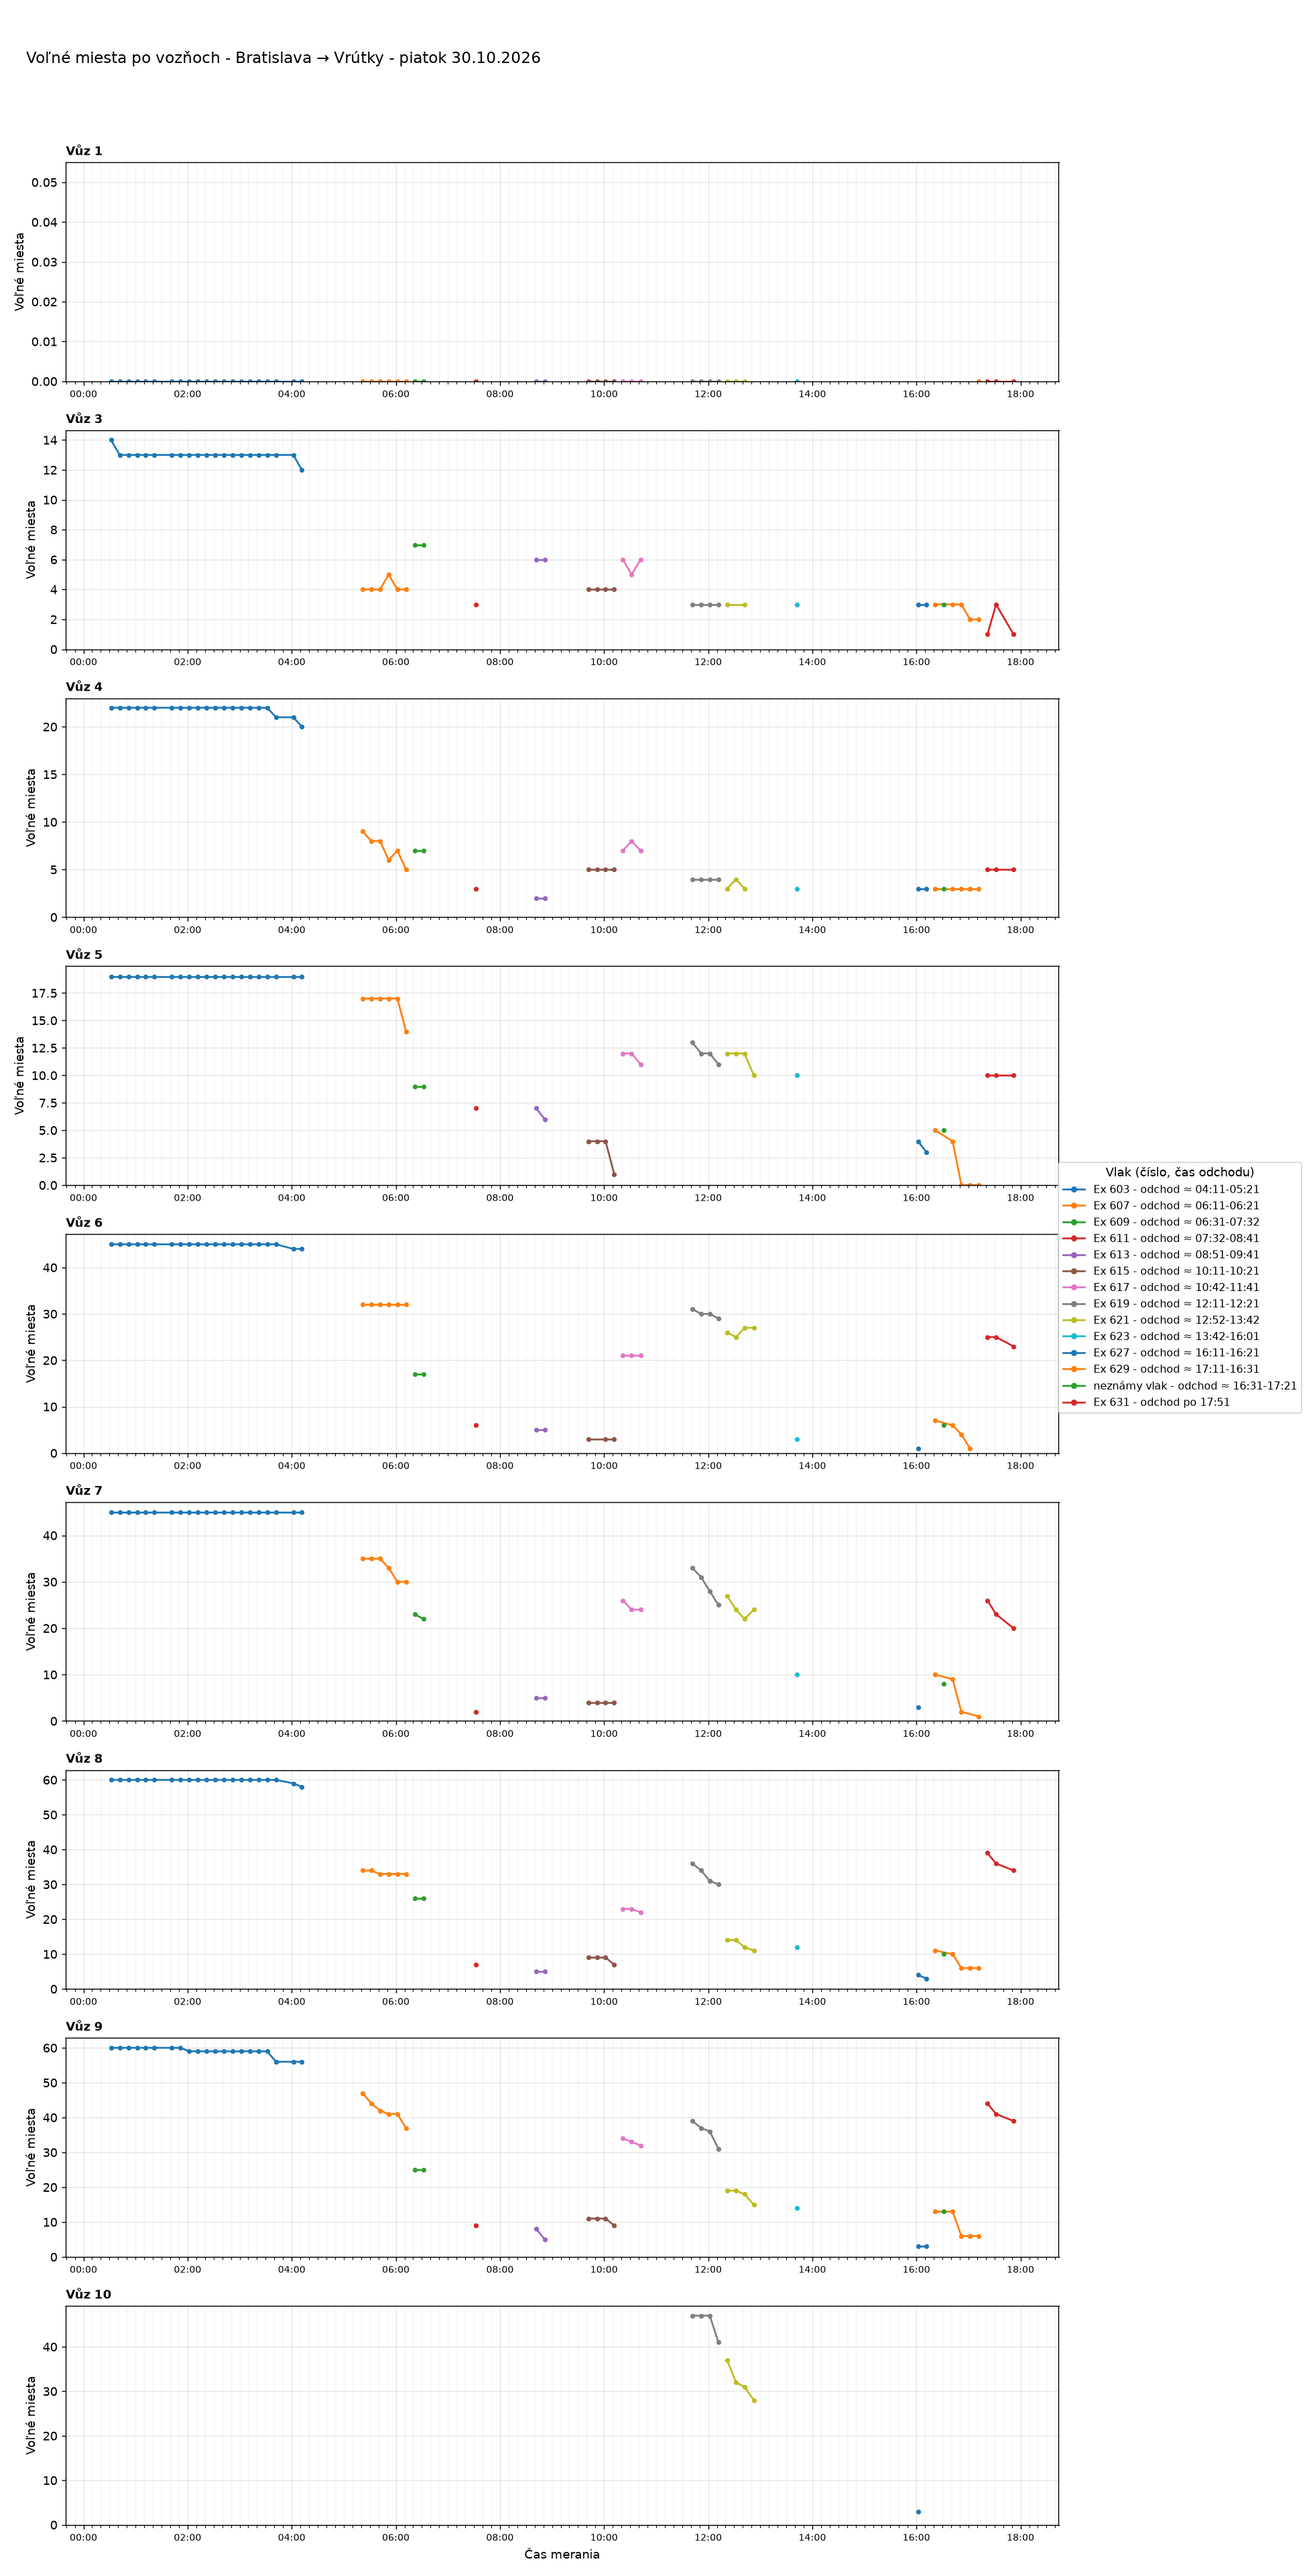
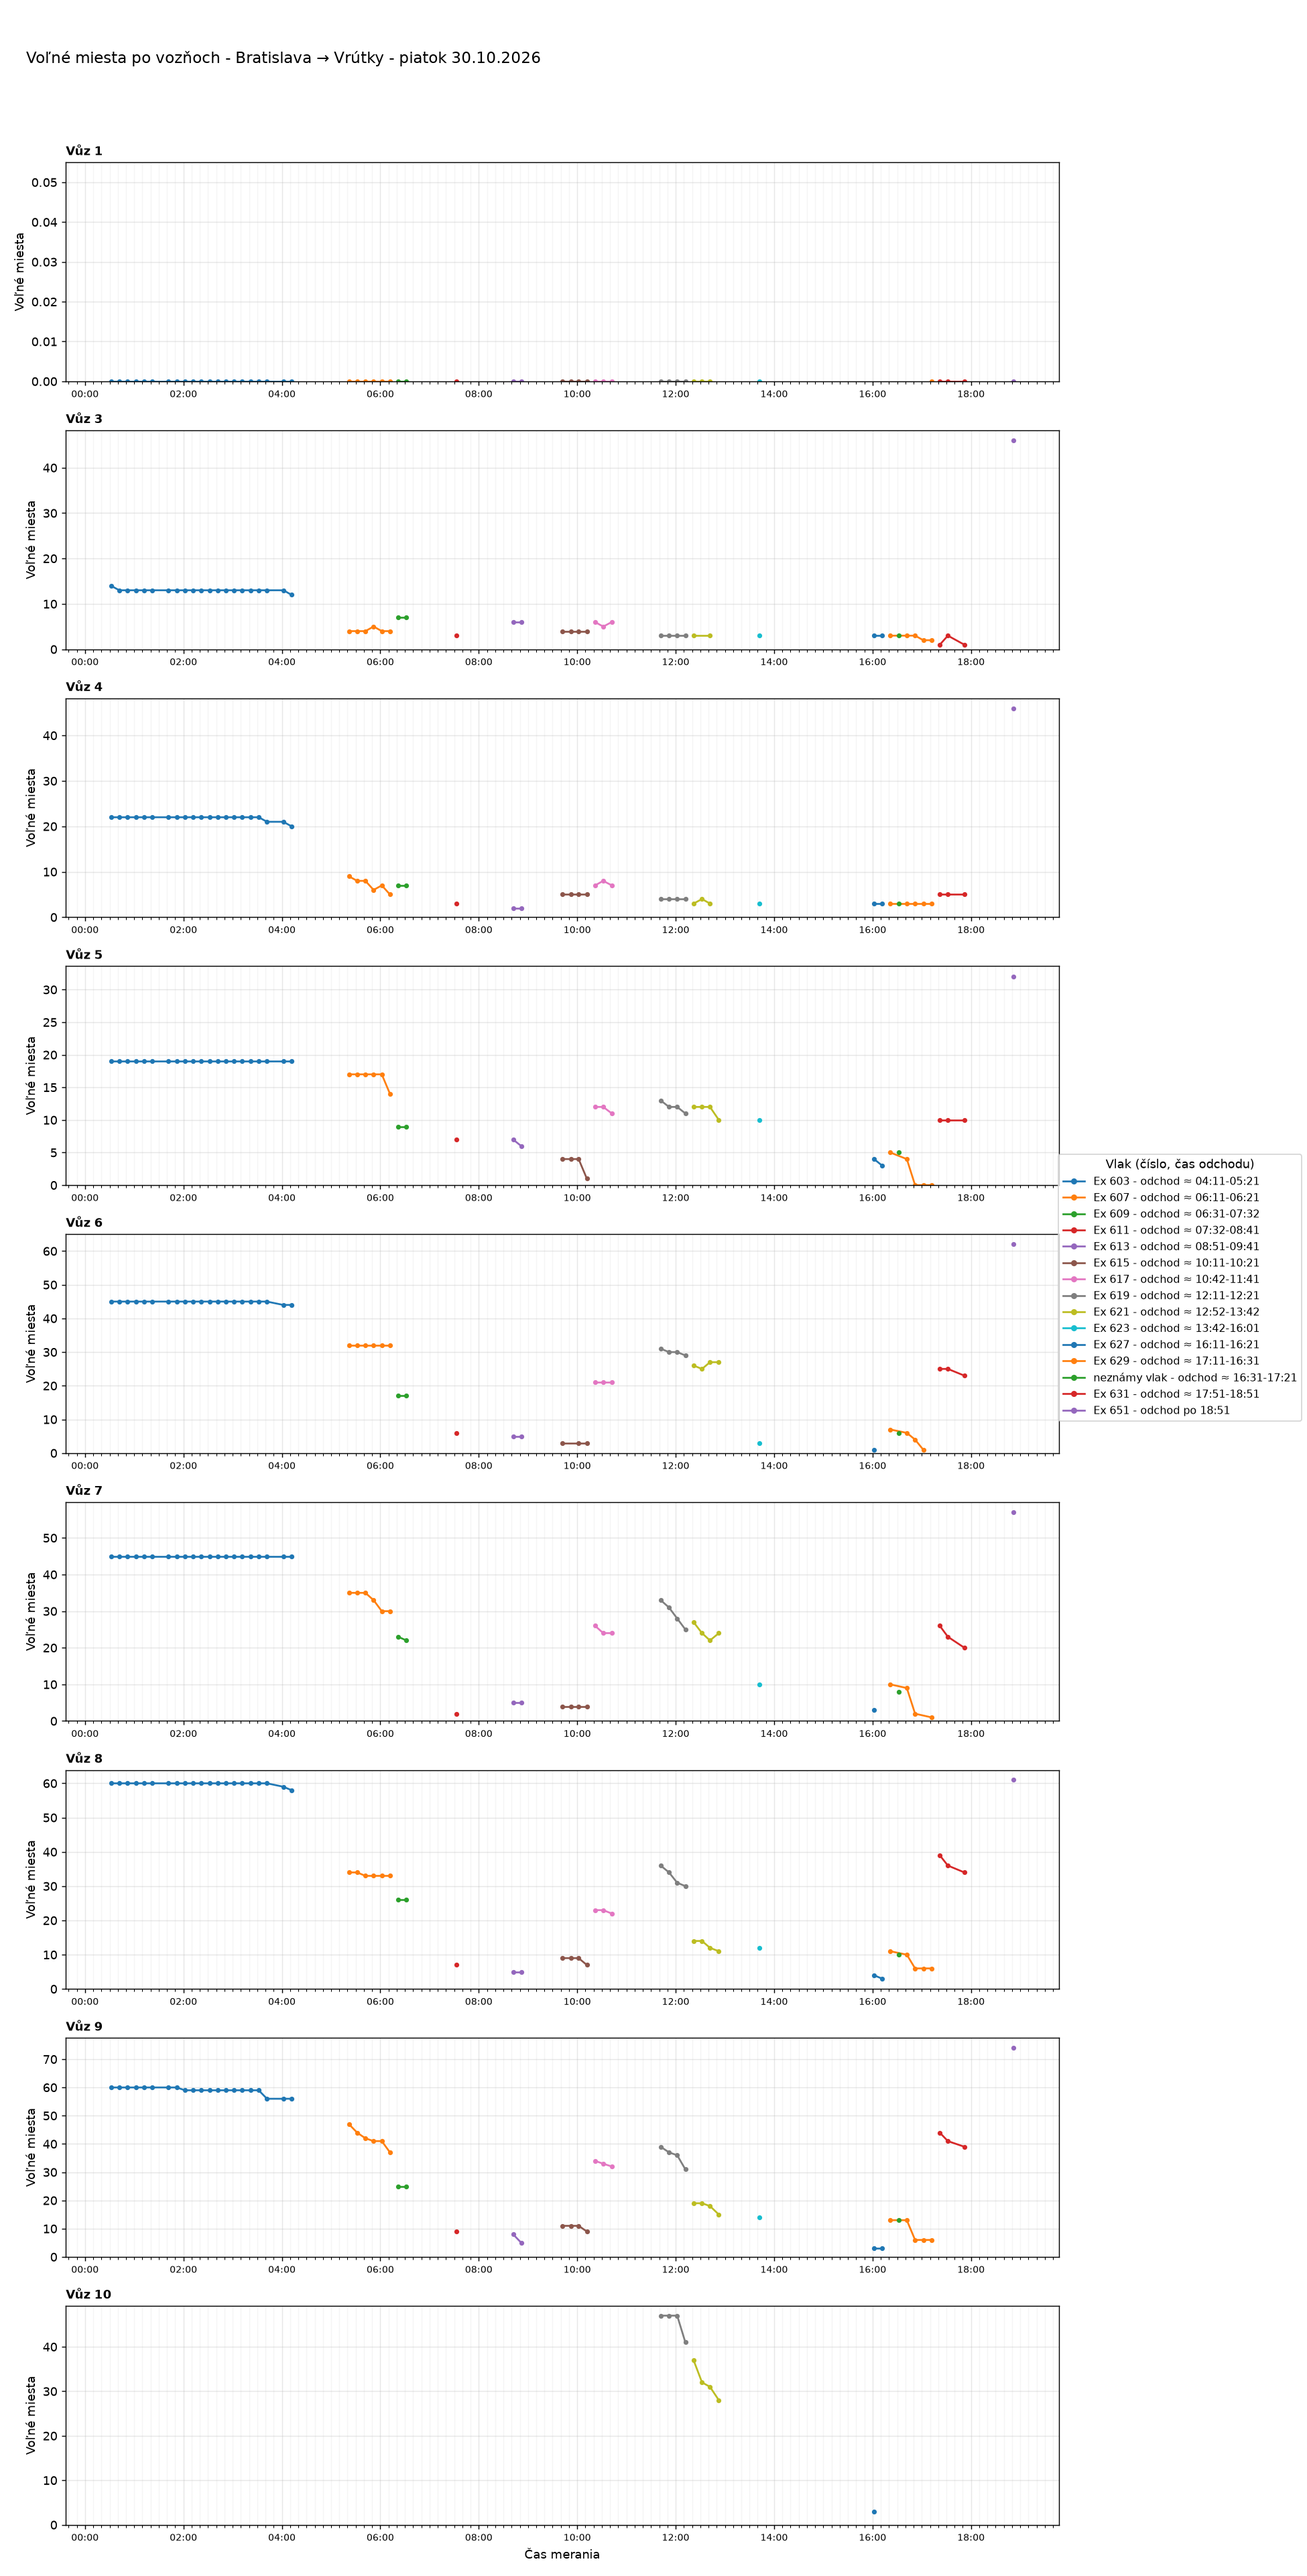
Aktualizácia grafov 2026-10-30 19:04

diff --git a/index.html b/index.html
@@ -37,7 +37,7 @@ details.trasa>summary{cursor:pointer;font-weight:600;font-size:1.1rem;padding:8p
 <body>
 <main>
 <h1>Voľné miesta vo vlakoch</h1>
-<p class="muted">Posledné meranie: 30.10.2026 17:54 ·
+<p class="muted">Posledné meranie: 30.10.2026 18:52 ·
 <a href="data/obsadenost_data.csv">stiahnuť dáta (CSV)</a></p>
 <nav class="nav"><a href="#suhrn">Súhrn</a><a href="#statistiky">Štatistiky</a><a href="#historia">História grafov</a></nav>
 
@@ -46,8 +46,8 @@ details.trasa>summary{cursor:pointer;font-weight:600;font-size:1.1rem;padding:8p
 <div class="tablewrap"><table>
 <thead><tr><th>Deň</th><th>Trasa</th><th>Meraní</th><th>Vlakov</th><th>Čas meraní</th></tr></thead>
 <tbody>
-<tr><td><a href="#dBA-VR-2026-10-30">piatok 30.10.2026</a></td><td>Bratislava → Vrútky</td><td>59</td><td>14</td><td>00:31-17:51</td></tr>
-<tr><td><a href="#dVR-BA-2026-10-30">piatok 30.10.2026</a></td><td>Vrútky → Bratislava</td><td>50</td><td>12</td><td>02:52-17:52</td></tr>
+<tr><td><a href="#dBA-VR-2026-10-30">piatok 30.10.2026</a></td><td>Bratislava → Vrútky</td><td>60</td><td>15</td><td>00:31-18:51</td></tr>
+<tr><td><a href="#dVR-BA-2026-10-30">piatok 30.10.2026</a></td><td>Vrútky → Bratislava</td><td>51</td><td>13</td><td>02:52-18:52</td></tr>
 <tr><td><a href="#dBA-KE-2026-10-30">piatok 30.10.2026</a></td><td>Bratislava → Košice</td><td>50</td><td>12</td><td>00:22-17:53</td></tr>
 <tr><td><a href="#dKE-BA-2026-10-30">piatok 30.10.2026</a></td><td>Košice → Bratislava</td><td>41</td><td>12</td><td>00:23-17:54</td></tr>
 <tr><td><a href="#dBA-VR-2026-10-29">štvrtok 29.10.2026</a></td><td>Bratislava → Vrútky</td><td>84</td><td>14</td><td>00:01-23:31</td></tr>
